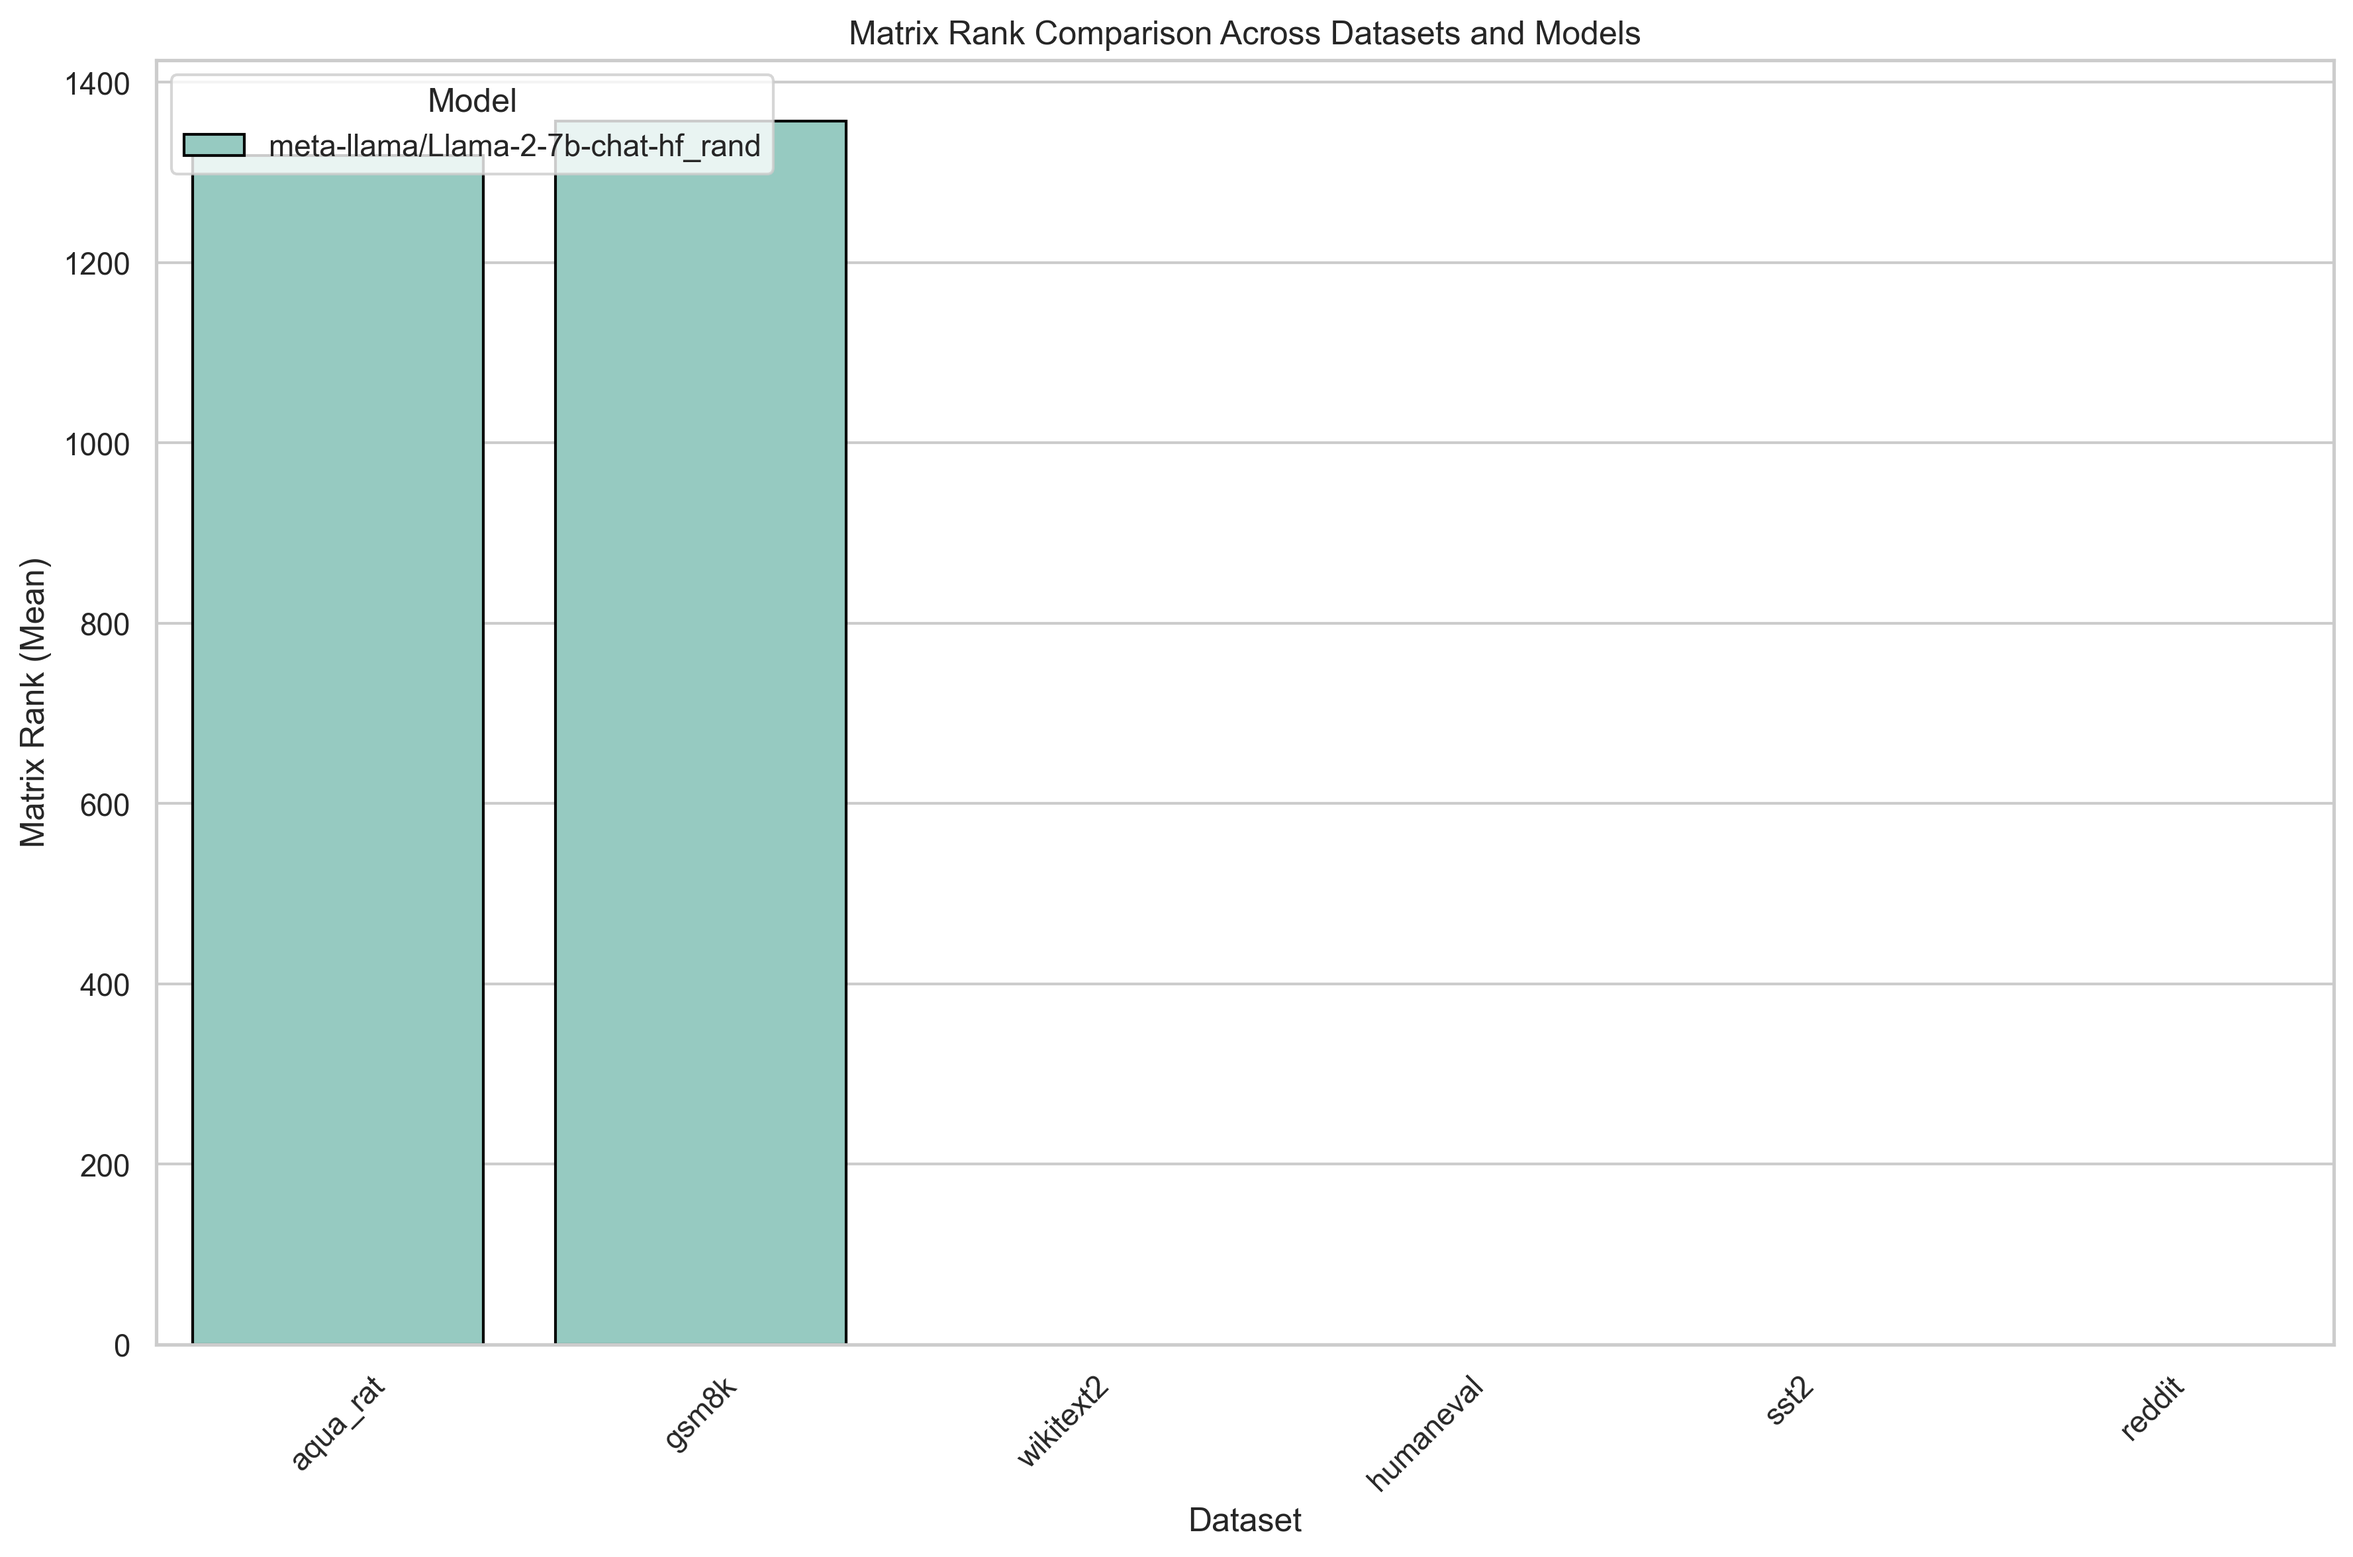
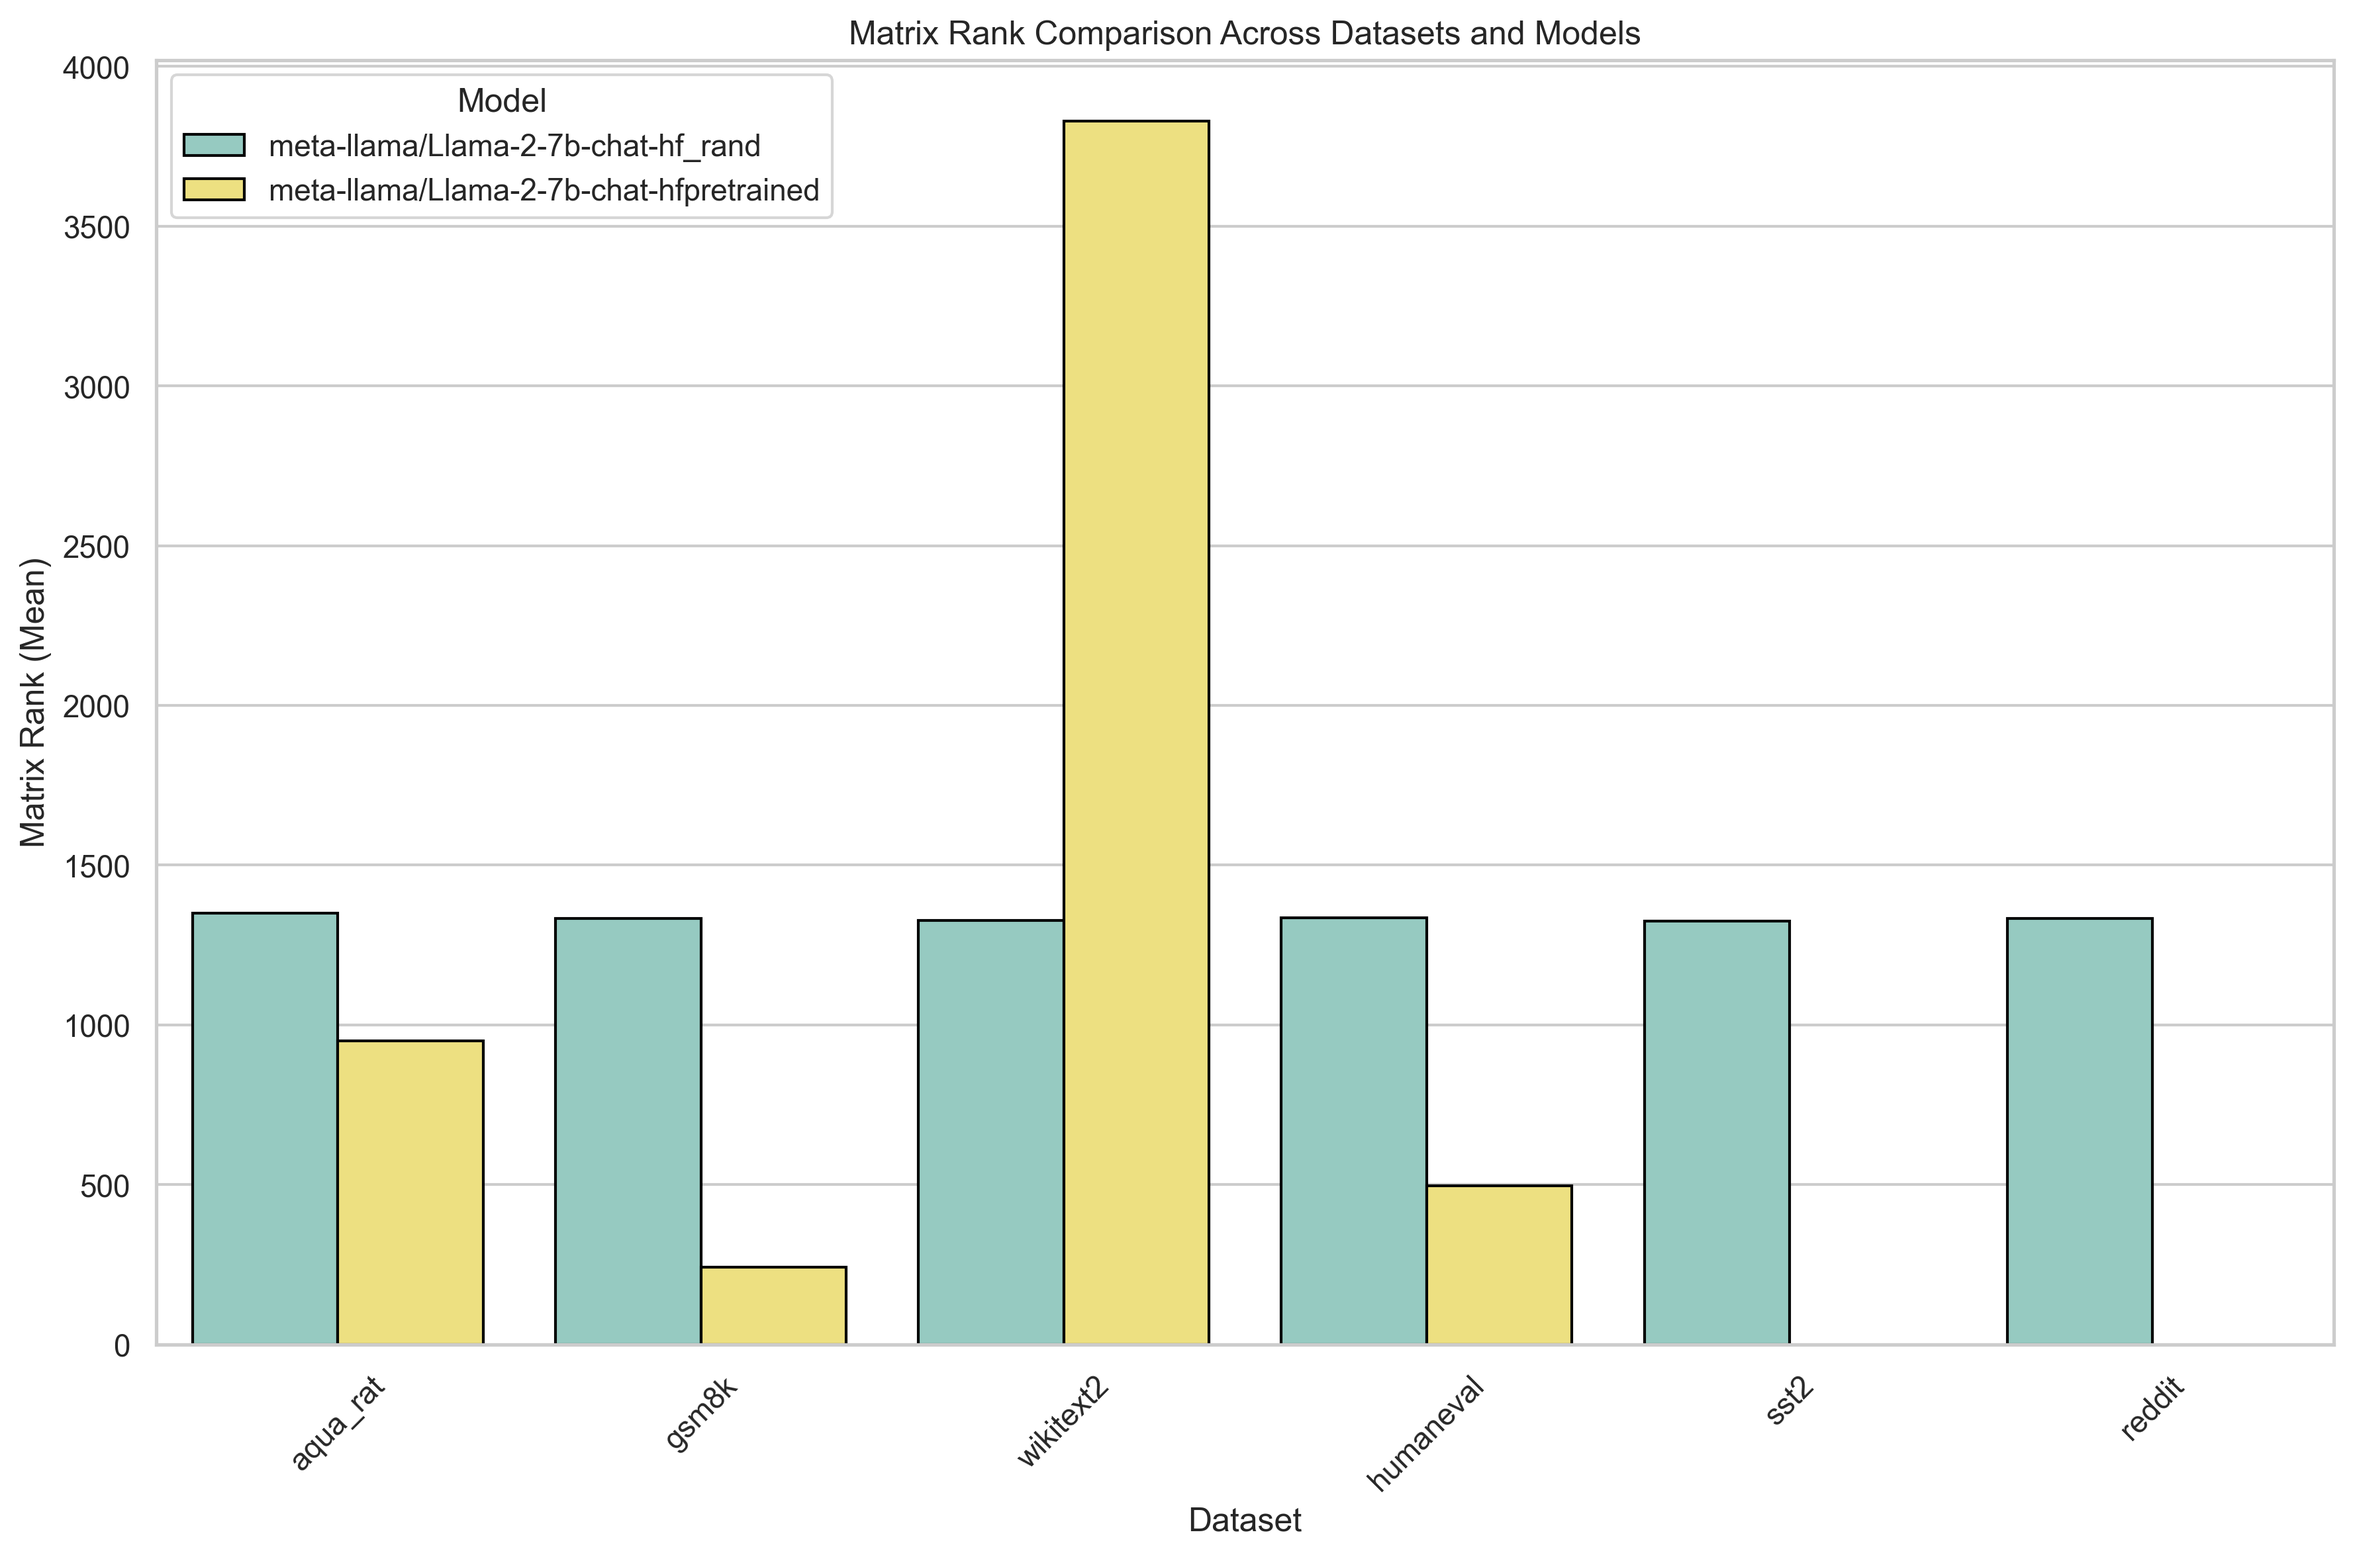
Update plot script

diff --git a/scripts/plot_dataset_spectrum.py b/scripts/plot_dataset_spectrum.py
@@ -84,77 +84,77 @@ def get_samples(debug=False, num_samples=5):
                 "(Please answer with the letter of the correct option, e.g., 'A', 'B', etc.)\n"
             ),
         },
-        # "gsm8k": {
-        #     "hf_name": ("gsm8k", "main"),
+        "gsm8k": {
+            "hf_name": ("gsm8k", "main"),
+            "load_kwargs": {"split": f"train[:{num_samples*5}]"},
+            "format_fn": lambda sample: (
+                gsm8k_fewshot + f"Q: {sample['question']}\nAnswer: "
+                "(Please show your step-by-step reasoning and end with the answer after '####', e.g., '#### 42')\n"
+            ),
+        },
+        "wikitext2": {
+            "hf_name": ("wikitext", "wikitext-2-raw-v1"),
+            "load_kwargs": {"split": f"train[:{num_samples*5}]"},
+            "format_fn": lambda sample: sample["text"][:200],
+        },
+        "humaneval": {
+            "hf_name": ("openai_humaneval",),
+            "load_kwargs": {"split": f"test[:{num_samples*5}]"},
+            "format_fn": lambda sample: (
+                humaneval_fewshot + f"{sample['prompt']}\n"
+                "(Please complete the function implementation)\n"
+            ),
+        },
+        # Medium rank
+        "sst2": {
+            "hf_name": ("glue", "sst2"),
+            "load_kwargs": {"split": "train[:100]"},
+            "format_fn": lambda sample: sample["sentence"],
+        },
+        # High rank
+        "reddit": {
+            "hf_name": ("reddit",),
+            "load_kwargs": {
+                "split": f"train[:{num_samples*5}]",
+                "trust_remote_code": True,
+            },
+            "format_fn": lambda sample: sample["body"],
+        },
+        # "hellaswag": {
+        #     "hf_name": ("hellaswag",),
         #     "load_kwargs": {"split": f"train[:{num_samples*5}]"},
         #     "format_fn": lambda sample: (
-        #         gsm8k_fewshot + f"Q: {sample['question']}\nAnswer: "
-        #         "(Please show your step-by-step reasoning and end with the answer after '####', e.g., '#### 42')\n"
+        #         hellaswag_fewshot
+        #         + f"{sample['ctx']} {sample['endings'][0]}\nA) {sample['endings'][0]}\nB) {sample['endings'][1]}\nC) {sample['endings'][2]}\nD) {sample['endings'][3]}\nAnswer: "
+        #         "(Please answer with the letter of the correct option, e.g., 'A', 'B', etc.)\n"
         #     ),
         # },
-        # "wikitext2": {
-        #     "hf_name": ("wikitext", "wikitext-2-raw-v1"),
+        # "ai2_reasoning": {
+        #     "hf_name": ("ai2_arc", "ARC-Challenge"),
         #     "load_kwargs": {"split": f"train[:{num_samples*5}]"},
-        #     "format_fn": lambda sample: sample["text"][:200],
-        # },
-        # "humaneval": {
-        #     "hf_name": ("openai_humaneval",),
-        #     "load_kwargs": {"split": f"test[:{num_samples*5}]"},
         #     "format_fn": lambda sample: (
-        #         humaneval_fewshot + f"{sample['prompt']}\n"
+        #         ai2_reasoning_fewshot
+        #         + f"Q: {sample['question']}\nA) {sample['choices']['text'][0]}\nB) {sample['choices']['text'][1]}\nC) {sample['choices']['text'][2]}\nD) {sample['choices']['text'][3]}\nAnswer: "
+        #         "(Please answer with the letter of the correct option, e.g., 'A', 'B', etc.)\n"
+        #     ),
+        # },
+        # "csqa": {
+        #     "hf_name": ("commonsense_qa",),
+        #     "load_kwargs": {"split": f"train[:{num_samples*5}]"},
+        #     "format_fn": lambda sample: (
+        #         csqa_fewshot
+        #         + f"Q: {sample['question']}\nA) {sample['choices']['text'][0]}\nB) {sample['choices']['text'][1]}\nC) {sample['choices']['text'][2]}\nD) {sample['choices']['text'][3]}\nE) {sample['choices']['text'][4]}\nAnswer: "
+        #         "(Please answer with the letter of the correct option, e.g., 'A', 'B', etc.)\n"
+        #     ),
+        # },
+        # "mbpp": {
+        #     "hf_name": ("mbpp",),
+        #     "load_kwargs": {"split": f"train[:{num_samples*5}]"},
+        #     "format_fn": lambda sample: (
+        #         mbpp_fewshot + f"def {sample['entry_point']}({sample['prompt']}):\n"
         #         "(Please complete the function implementation)\n"
         #     ),
         # },
-        # # Medium rank
-        # "sst2": {
-        #     "hf_name": ("glue", "sst2"),
-        #     "load_kwargs": {"split": "train[:100]"},
-        #     "format_fn": lambda sample: sample["sentence"],
-        # },
-        # # High rank
-        # "reddit": {
-        #     "hf_name": ("reddit",),
-        #     "load_kwargs": {
-        #         "split": f"train[:{num_samples*5}]",
-        #         "trust_remote_code": True,
-        #     },
-        #     "format_fn": lambda sample: sample["body"],
-        # },
-        # # "hellaswag": {
-        # #     "hf_name": ("hellaswag",),
-        # #     "load_kwargs": {"split": f"train[:{num_samples*5}]"},
-        # #     "format_fn": lambda sample: (
-        # #         hellaswag_fewshot
-        # #         + f"{sample['ctx']} {sample['endings'][0]}\nA) {sample['endings'][0]}\nB) {sample['endings'][1]}\nC) {sample['endings'][2]}\nD) {sample['endings'][3]}\nAnswer: "
-        # #         "(Please answer with the letter of the correct option, e.g., 'A', 'B', etc.)\n"
-        # #     ),
-        # # },
-        # # "ai2_reasoning": {
-        # #     "hf_name": ("ai2_arc", "ARC-Challenge"),
-        # #     "load_kwargs": {"split": f"train[:{num_samples*5}]"},
-        # #     "format_fn": lambda sample: (
-        # #         ai2_reasoning_fewshot
-        # #         + f"Q: {sample['question']}\nA) {sample['choices']['text'][0]}\nB) {sample['choices']['text'][1]}\nC) {sample['choices']['text'][2]}\nD) {sample['choices']['text'][3]}\nAnswer: "
-        # #         "(Please answer with the letter of the correct option, e.g., 'A', 'B', etc.)\n"
-        # #     ),
-        # # },
-        # # "csqa": {
-        # #     "hf_name": ("commonsense_qa",),
-        # #     "load_kwargs": {"split": f"train[:{num_samples*5}]"},
-        # #     "format_fn": lambda sample: (
-        # #         csqa_fewshot
-        # #         + f"Q: {sample['question']}\nA) {sample['choices']['text'][0]}\nB) {sample['choices']['text'][1]}\nC) {sample['choices']['text'][2]}\nD) {sample['choices']['text'][3]}\nE) {sample['choices']['text'][4]}\nAnswer: "
-        # #         "(Please answer with the letter of the correct option, e.g., 'A', 'B', etc.)\n"
-        # #     ),
-        # # },
-        # # "mbpp": {
-        # #     "hf_name": ("mbpp",),
-        # #     "load_kwargs": {"split": f"train[:{num_samples*5}]"},
-        # #     "format_fn": lambda sample: (
-        # #         mbpp_fewshot + f"def {sample['entry_point']}({sample['prompt']}):\n"
-        # #         "(Please complete the function implementation)\n"
-        # #     ),
-        # # },
     }
 
     samples = {}

diff --git a/scripts/plot_model_dataset_joint_stats.py b/scripts/plot_model_dataset_joint_stats.py
@@ -9,72 +9,6 @@ import torch
 import numpy as np
 
 
-def plot_dataset_rank_v1():
-
-    # Load the summary data
-    csv_path = os.path.join("results", "data", "spectrum_rank_comparison.csv")
-    df = pd.read_csv(csv_path)
-
-    # Add a column for legend: ModelType + InitType
-    # (e.g., 'DeepSeek-R1 (pretrained)', 'Llama-2-7B (random)')
-    df = df[df["InitType"] != "random"]
-    # remove aqua_rat
-    df = df[df["Category"] != "aqua_rat"]
-    df["ModelInit"] = df["ModelType"] + " (" + df["InitType"] + ")"
-
-    # Set plotting order
-    dataset_order = ["gsm8k", "humaneval", "reddit", "wikitext2", "sst2"]
-    modelinit_order = [
-        "DeepSeek-R1 (pretrained)",
-        "Llama-2-7B (pretrained)",
-        # "Llama-2-7B (random)",
-    ]
-
-    # Set seaborn style
-    sns.set_theme(style="whitegrid")
-
-    # Color and hatch mapping
-    color_map = {
-        "Llama-2-7B (pretrained)": "#1f77b4",
-        "Llama-2-7B (random)": "#1f77b4",
-        "DeepSeek-R1 (pretrained)": "#ff7f0e",
-    }
-    hatch_map = {
-        "Llama-2-7B (pretrained)": None,
-        "Llama-2-7B (random)": "//",
-        "DeepSeek-R1 (pretrained)": None,
-    }
-
-    plt.figure(figsize=(10, 6))
-    ax = sns.barplot(
-        data=df,
-        x="Category",
-        y="MatrixRankMean",
-        hue="ModelInit",
-        order=dataset_order,
-        hue_order=modelinit_order,
-        palette=color_map,
-        edgecolor="black",
-    )
-
-    # Apply hatches for random init
-    for bars, modelinit in zip(ax.containers, modelinit_order):
-        for bar in bars:
-            if hatch_map[modelinit]:
-                bar.set_hatch(hatch_map[modelinit])
-
-    plt.ylabel("Matrix Rank (Mean)")
-    plt.xlabel("Dataset")
-    plt.title("Matrix Rank Comparison Across Datasets and Model Initializations")
-    plt.legend(title="Model (Init)", loc="upper left")
-    plt.tight_layout()
-
-    save_path = os.path.join("results", "matrix_rank_comparison_hatch.png")
-    os.makedirs(os.path.dirname(save_path), exist_ok=True)
-    plt.savefig(save_path, dpi=300, bbox_inches="tight")
-    plt.show()
-
-
 def ckpt_friendly_name(ckpt_name: str):
     # results/spectrum_progress_meta-llama_Llama-2-7b-chat-hf_topk5000_rand.pt' => 'meta-llama_Llama-2-7b-chat-hf (rand)'
     return (
@@ -156,19 +90,18 @@ def plot_dataset_rank(ckpt_paths: List[str], save_path=None):
         os.makedirs(os.path.dirname(save_path), exist_ok=True)
         plt.savefig(save_path, dpi=300, bbox_inches="tight")
         print(f"Saved plot to {save_path}")
-    plt.show()
 
 
 def plot_histograms(
     # max_ys: Dict[str, List[torch.Tensor]],
     # max_xs: Dict[str, List[torch.Tensor]],
     # save_path=None,
-    ckpt_paths: List[str],
+    ckpt_path: str,
     save_path=None,
 ):
     """Plot histograms of max_ys and max_xs in a single figure with subplots for each category."""
 
-    ckpt = torch.load(ckpt_paths[0], weights_only=False)
+    ckpt = torch.load(ckpt_path, weights_only=False)
     max_ys = {k: v["max_ys"] for k, v in ckpt.items()}
     max_xs = {k: v["max_xs"] for k, v in ckpt.items()}
 
@@ -196,7 +129,6 @@ def plot_histograms(
     if save_path:
         os.makedirs(os.path.dirname(save_path), exist_ok=True)
         plt.savefig(save_path, dpi=300, bbox_inches="tight")
-    plt.show()
 
 
 def main():
@@ -205,14 +137,19 @@ def main():
     args = parser.parse_args()
 
     save_path_rank = os.path.join(
-        "results", "plots", f"{args.ckpts[0].split('/')[-1]}_rank.png"
+        "results",
+        "plots",
+        f"{args.ckpts[0].split('/')[-1].replace('.pt', '')}_rank.png",
     )
 
-    save_path_hist = os.path.join(
-        "results", "plots", f"{args.ckpts[0].split('/')[-1]}_hist.png"
-    )
     plot_dataset_rank(args.ckpts, save_path=save_path_rank)
-    plot_histograms(args.ckpts, save_path=save_path_hist)
+    for ckpt_path in args.ckpts:
+        save_path_hist = os.path.join(
+            "results",
+            "plots",
+            f"{ckpt_path.split('/')[-1].replace('.pt', '')}_hist.png",
+        )
+        plot_histograms(ckpt_path, save_path=save_path_hist)
 
 
 if __name__ == "__main__":
